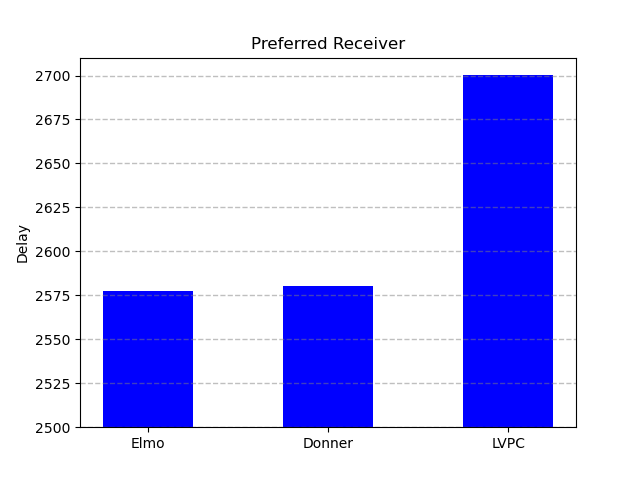
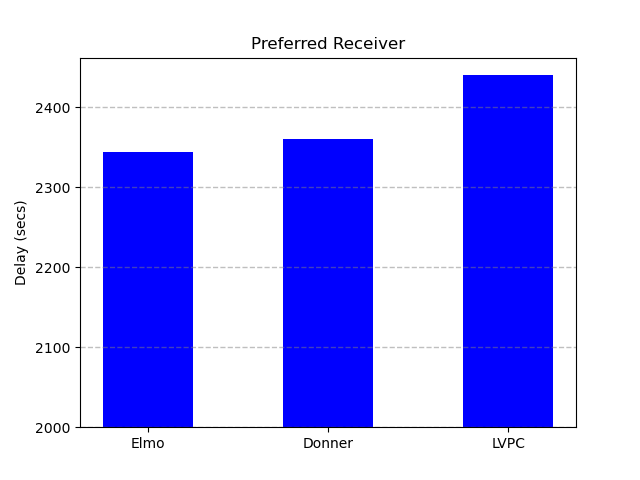
make graphs relative for fees

diff --git a/simulation/make_graphs.py b/simulation/make_graphs.py
@@ -4,6 +4,7 @@ import matplotlib.pyplot as plt
 from tqdm import tqdm
 from simulation import ROUNDS_RANDOM_PAYMENTS
 
+
 for distribution in tqdm(["power_law", "preferred_receiver", "uniform"]):
     # power law
     num_successful_payments_elmo = 0
@@ -230,18 +231,21 @@ for distribution in tqdm(["power_law", "preferred_receiver", "uniform"]):
 
     assert num_payments_elmo == num_payments_donner == num_payments_lvpc
 
-    cutoff_fee = 10**8
+    cutoff_fee = 0.75
     num_payments = num_payments_lvpc
+    max_fee = max(
+        sum_fees_elmo, sum_fees_donner, sum_fees_lvpc
+    )
     cost_bar = [
-        sum_fees_elmo / num_payments - cutoff_fee, sum_fees_donner / num_payments - cutoff_fee,
-        sum_fees_lvpc / num_payments - cutoff_fee
+        sum_fees_elmo / max_fee - cutoff_fee, sum_fees_donner / max_fee - cutoff_fee,
+        sum_fees_lvpc / max_fee - cutoff_fee
     ]
 
     plt.bar(
         x_coords_cost, cost_bar, tick_label = labels_cost,
         width=0.5, color=color, bottom=cutoff_fee
     )
-    plt.ylabel("Fee (satoshis)")
+    plt.ylabel("Fee")
     plt.title(distribution.replace('_', ' ').title())
     plt.grid(color='grey', linestyle='--', linewidth=1, axis='y', alpha=0.25)
     plt.savefig("Fees_" + distribution + ".png", bbox_inches="tight")
@@ -251,7 +255,7 @@ for distribution in tqdm(["power_law", "preferred_receiver", "uniform"]):
     x_coords_delay = [0, 1, 2]
     labels_delay = ['Elmo', 'Donner', 'LVPC']
 
-    cutoff_delay = 2500
+    cutoff_delay = 2000
     delay_bar = [
         sum_delays_elmo / num_payments - cutoff_delay,
         sum_delays_donner / num_payments - cutoff_delay,
